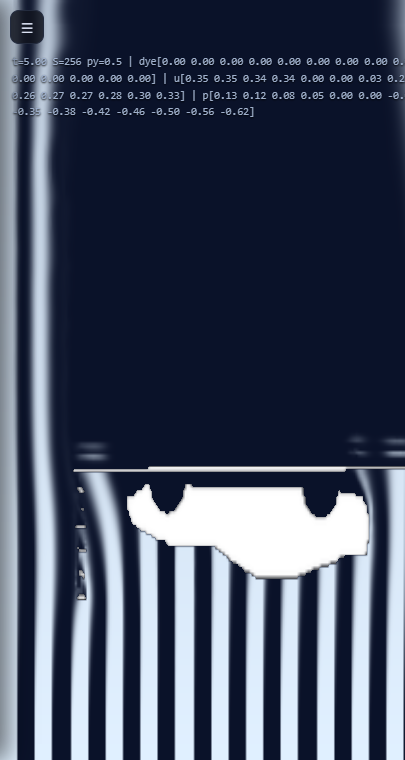
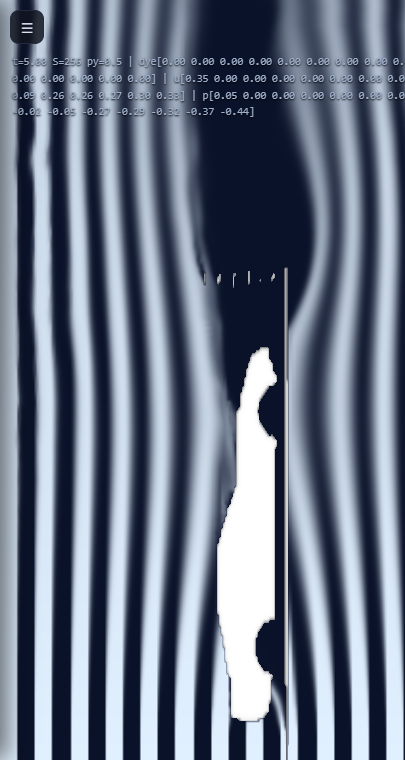
竖屏方向修正：物体长轴顺着风，别再转 90°
竖屏是「画面整体转 90°」，不是「物体转 90°」。早先给物体补了 90°，
结果车横过来变成一堵墙把风道堵死，上半屏没有烟。

- GPU 版：uploadMask 里去掉竖屏补转
- CPU 版：objAngle 里去掉 PORTRAIT ? 90 : 0（显示与掩码两处都改，保持一致）
- 文档补进已知坑；CHANGELOG 记一笔

diff --git a/cpu.html b/cpu.html
@@ -1348,8 +1348,8 @@
     const cx = objX * NX * k;
     const cy = objY * NY * k;
     ctx.translate(cx, cy);
-    // 竖屏时整个场景转了 90°，物体要再补 90° 才能在屏幕上"正着站"
-    ctx.rotate((objAngle + (PORTRAIT ? 90 : 0)) * Math.PI / 180);
+    // 物体不跟着竖屏转：长轴永远顺着风。竖屏是「整体画面转 90°」，不是「物体转 90°」——后者会让车横过来堵死风道
+    ctx.rotate(objAngle * Math.PI / 180);
     ctx.drawImage(srcImg, -objGeom.w / 2 * k, -objGeom.h / 2 * k,
                   objGeom.w * k, objGeom.h * k);
     ctx.globalAlpha = 1;
@@ -1440,7 +1440,7 @@
       ctx.lineWidth = 1.5;
       ctx.setLineDash([6, 5]);
       ctx.translate(objX * NX * RS, objY * NY * RS);
-      ctx.rotate((objAngle + (PORTRAIT ? 90 : 0)) * Math.PI / 180);
+      ctx.rotate(objAngle * Math.PI / 180);
       ctx.strokeRect(-objGeom.w / 2 * RS, -objGeom.h / 2 * RS,
                      objGeom.w * RS, objGeom.h * RS);
       ctx.restore();
@@ -1548,7 +1548,7 @@
     hg.save();
     hg.scale(MS, MS);                                  // 之后按网格坐标画
     hg.translate(objX * NX, objY * NY);
-    hg.rotate((objAngle + (PORTRAIT ? 90 : 0)) * Math.PI / 180);
+    hg.rotate(objAngle * Math.PI / 180);
     hg.drawImage(srcImg, -w / 2, -h / 2, w, h);
     hg.restore();
 

diff --git a/gpu/gpu-fluid.html b/gpu/gpu-fluid.html
@@ -563,12 +563,10 @@
     const fit = Math.min(S * objScale / maskImg.width, S * objScale / maskImg.height) *
                 (wall ? 1 : 1);
     const w = maskImg.width * fit, h = maskImg.height * fit;
-    // 竖屏时场景整体转了 90°，物体要再补 90° 才能在屏幕上"正着站"
-    g.save();
-    g.translate(objX * S, objY * S);
-    if (PORTRAIT) g.rotate(Math.PI / 2);
-    g.drawImage(maskImg, -w / 2, -h / 2, w, h);
-    g.restore();
+    // 物体**不跟着竖屏转**：它待在物理坐标里，长轴永远顺着风。
+    // 竖屏时屏幕上看到的是整体（含物体）转了 90°，所以车头朝下、风打在车头上，气流从车身上下绕过去。
+    // （早先这里补过 90°，结果竖屏里车横过来变成一堵墙，把风道堵死）
+    g.drawImage(maskImg, objX * S - w / 2, objY * S - h / 2, w, h);
     const data = g.getImageData(0, 0, S, S).data;
     const out = new Uint8Array(S * S);
     const thr = wall ? 8 : 100;

diff --git a/gpu/README.md b/gpu/README.md
@@ -10,7 +10,8 @@
 - 8 个物理着色器：速度对流 / 散度 / Jacobi 压力(24 次) / 减梯度 / 涡量约束 / 染料对流 / 入口注入 / 初始灌流
 - **四层显示**：烟（染料）/ 速度（彩虹色标）/ 压力（发散色标，自动对比度）/ 粒子（GPU 状态纹理）
 - 障碍物掩码从 PNG 上传（`?preset=` / `?img=`）
-- **竖屏**：`?orient=portrait`，或按窗口比例自动判断（手机即竖屏）；物体补 90° 旋转
+- **竖屏**：`?orient=portrait`，或按窗口比例自动判断（手机即竖屏）；
+  画面整体转 90°（风从下往上），**物体不跟着转** —— 长轴始终顺着风，气流从它两侧绕过
 - 已接到主页：`index.html` 探测 WebGL2 + `EXT_color_buffer_float`，有就走 GPU，没有退回 `cpu.html`
 
 ## 交接单第一件「条纹不流动」：结论是**没有这个 bug**
@@ -122,6 +123,7 @@ PROBE t=6.00 S=256 py=0.5 | dye[0.00 …] | u[0.35 0.00 0.00 … 0.30 0.32] | p[
 | **探针只采一行** | y=0.5 正好落在条纹暗带上，会读到"整场全 0"；改读整行 + `?grid=1` |
 | 出口改零梯度 | 试过：`u` 从 0.35 沿程掉到 0.20，全场速度塌掉；保持两端 Dirichlet 吹入 |
 | 粒子寿命全一样 | 会同步重生形成"粒子浪"；寿命乘以个体随机数 |
+| 竖屏时给物体补 90° | 车会横过来变成一堵墙，把风道堵死（CPU 版也踩过）。竖屏是「画面整体转 90°」，不是「物体转 90°」——物体的长轴要始终顺着风 |
 
 ## 下一步（新交接单）
 

diff --git a/CHANGELOG.md b/CHANGELOG.md
@@ -8,8 +8,9 @@
   支持就走 `gpu/gpu-fluid.html`，不支持自动退回 `cpu.html`；`?cpu=1` 可强制用 CPU 版
 - **GPU 版四层显示**：烟 / 速度（彩虹色标）/ 压力（发散色标 + 自动对比度）/ 粒子
   - 粒子跑在 GPU 上：状态纹理推进 + 一次 `drawArrays(LINES)` 画成沿速度方向的短线
-- **GPU 版竖屏**：`?orient=portrait` 或按窗口比例自动判断；画布转 90°（风从下往上），
-  物体补 90° 保持"站姿"，拖动坐标跟着反变换
+- **GPU 版竖屏**：`?orient=portrait` 或按窗口比例自动判断；画面整体转 90°（风从下往上），
+  **物体的长轴始终顺着风**（不跟着转，否则车横过来会堵死风道），拖动坐标跟着反变换
+- 修掉同一个坑（CPU 版也有）：竖屏时物体被额外转了 90°，变成一堵横墙；现在两个引擎都让物体保持迎风
 - **确定性探针**：`?warm=N` 渲染前同步跑 N 步、`?probe=1` 读回整行数值、`?grid=dye|u|p` 出 ASCII 全场图；
   配 `gpu/probe.ps1` 一条命令拿到数字
 - 查清上一版记的「条纹不流动」是**假警报**：探针行 y=0.5 正好落在条纹暗带上，
